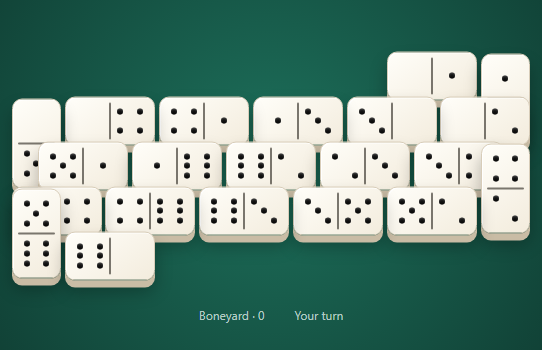
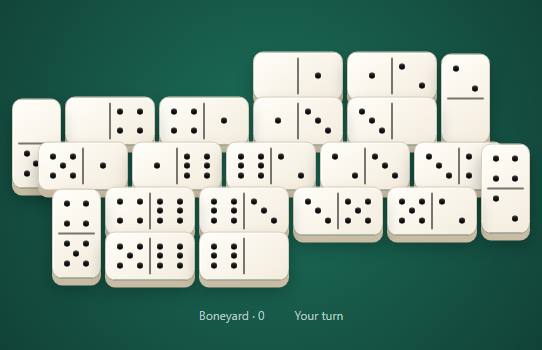
fix: avoid narrow domino turn overlap

Changed region(s): [[0.0, 0.5143, 0.5314, 0.8286], [0.7675, 0.1429, 1.0, 0.4286], [0.4428, 0.1429, 0.7675, 0.2857]]

diff --git a/apps/web/src/components/domino-chain-layout.ts b/apps/web/src/components/domino-chain-layout.ts
@@ -34,6 +34,14 @@ interface RowEntry {
   readonly raw: RawTile;
 }
 
+interface CornerPlacement {
+  readonly centerX: number;
+  readonly centerY: number;
+  readonly width: number;
+  readonly height: number;
+  readonly clamped: boolean;
+}
+
 export function layoutDominoChain(chain: readonly PlacedTile[], containerWidth: number): DominoChainLayout {
   if (!chain.length) return { tiles: [], height: MIN_HEIGHT };
   const width = Math.max(containerWidth, LONG_SIDE + PADDING * 2);
@@ -105,7 +113,17 @@ function placeBranch(
 
     const cornerAt = row.findLastIndex(({ raw }) => !isDouble(raw.tile));
     const previousIsDouble = isDouble(row.at(-1)?.raw.tile ?? tile);
-    const currentBecomesCorner = !isDouble(tile) && (cornerAt < 0 || !previousIsDouble);
+    const proposedCurrentCorner = cornerPlacement(
+      previous,
+      horizontalDirection,
+      verticalDirection,
+      rowCenterY,
+      width
+    );
+    const currentWouldObscurePrevious = proposedCurrentCorner.clamped &&
+      overlapsExcessively(previous, proposedCurrentCorner);
+    const currentBecomesCorner = !isDouble(tile) &&
+      (cornerAt < 0 || (!previousIsDouble && !currentWouldObscurePrevious));
     if (cornerAt < 0 && !currentBecomesCorner) {
       // Keep malformed fixture data total when no non-double is available as a corner.
       const fallback = rawTile(
@@ -135,19 +153,17 @@ function placeBranch(
     }
 
     const cornerOrientation: DominoOrientation = "vertical";
-    const cornerDimensions = tileDimensions(cornerOrientation);
-    const cornerCenterX = Math.min(
-      width - PADDING - cornerDimensions.width / 2,
-      Math.max(
-        PADDING + cornerDimensions.width / 2,
-        beforeCorner.centerX + horizontalDirection * (beforeCorner.width / 2 + cornerDimensions.width / 2 + GAP)
-      )
+    const cornerGeometry = cornerPlacement(
+      beforeCorner,
+      horizontalDirection,
+      verticalDirection,
+      rowCenterY,
+      width
     );
-    const cornerCenterY = rowCenterY + verticalDirection * cornerDimensions.height / 4;
     const corner = rawTile(
       cornerEntry.raw.tile,
-      cornerCenterX,
-      cornerCenterY,
+      cornerGeometry.centerX,
+      cornerGeometry.centerY,
       cornerOrientation,
       flowDirection(verticalDirection, indexStep)
     );
@@ -157,11 +173,49 @@ function placeBranch(
       pending.unshift(...replay, index);
     }
     horizontalDirection = horizontalDirection === -1 ? 1 : -1;
-    rowCenterY = cornerCenterY + verticalDirection * corner.height / 4;
+    rowCenterY = cornerGeometry.centerY + verticalDirection * corner.height / 4;
     rowAnchor = corner;
     previous = corner;
     row = [];
   }
+}
+
+function cornerPlacement(
+  beforeCorner: RawTile,
+  horizontalDirection: -1 | 1,
+  verticalDirection: -1 | 1,
+  rowCenterY: number,
+  width: number
+): CornerPlacement {
+  const { width: cornerWidth, height: cornerHeight } = tileDimensions("vertical");
+  const idealCenterX = beforeCorner.centerX +
+    horizontalDirection * (beforeCorner.width / 2 + cornerWidth / 2 + GAP);
+  const centerX = Math.min(
+    width - PADDING - cornerWidth / 2,
+    Math.max(PADDING + cornerWidth / 2, idealCenterX)
+  );
+  return {
+    centerX,
+    centerY: rowCenterY + verticalDirection * cornerHeight / 4,
+    width: cornerWidth,
+    height: cornerHeight,
+    clamped: centerX !== idealCenterX
+  };
+}
+
+function overlapsExcessively(first: RawTile, second: CornerPlacement): boolean {
+  const overlapWidth = Math.max(
+    0,
+    Math.min(first.centerX + first.width / 2, second.centerX + second.width / 2) -
+      Math.max(first.centerX - first.width / 2, second.centerX - second.width / 2)
+  );
+  const overlapHeight = Math.max(
+    0,
+    Math.min(first.centerY + first.height / 2, second.centerY + second.height / 2) -
+      Math.max(first.centerY - first.height / 2, second.centerY - second.height / 2)
+  );
+  return overlapWidth * overlapHeight >=
+    Math.min(first.width * first.height, second.width * second.height) / 4;
 }
 
 function isDouble(tile: PlacedTile): boolean {

diff --git a/apps/web/src/components/domino-chain-layout.test.ts b/apps/web/src/components/domino-chain-layout.test.ts
@@ -34,6 +34,14 @@ function closestHalves(
   ).sort((left, right) => left.distance - right.distance)[0]!;
 }
 
+function overlapArea(
+  first: ReturnType<typeof layoutDominoChain>["tiles"][number],
+  second: ReturnType<typeof layoutDominoChain>["tiles"][number]
+): number {
+  return Math.max(0, Math.min(first.x + first.width, second.x + second.width) - Math.max(first.x, second.x)) *
+    Math.max(0, Math.min(first.y + first.height, second.y + second.height) - Math.max(first.y, second.y));
+}
+
 describe("layoutDominoChain", () => {
   test("orders visible pips along both branches around move zero", () => {
     const chain = [
@@ -69,12 +77,14 @@ describe("layoutDominoChain", () => {
     const byMove = (moveNumber: number) =>
       layout.tiles.find(({ tile }) => tile.moveNumber === moveNumber)!;
 
-    expect(byMove(3).orientation).toBe("vertical");
-    expect([byMove(3).visualTile.left, byMove(3).visualTile.right]).toEqual([3, 4]);
-    expect(byMove(4).orientation).toBe("vertical");
-    expect([byMove(4).visualTile.left, byMove(4).visualTile.right]).toEqual([4, 3]);
-    expect([byMove(5).visualTile.left, byMove(5).visualTile.right]).toEqual([3, 2]);
-    expect([byMove(6).visualTile.left, byMove(6).visualTile.right]).toEqual([2, 3]);
+    expect(byMove(1).orientation).toBe("vertical");
+    expect([byMove(1).visualTile.left, byMove(1).visualTile.right]).toEqual([4, 5]);
+    expect(byMove(2).orientation).toBe("vertical");
+    expect([byMove(2).visualTile.left, byMove(2).visualTile.right]).toEqual([6, 4]);
+    expect([byMove(3).visualTile.left, byMove(3).visualTile.right]).toEqual([4, 3]);
+    expect([byMove(4).visualTile.left, byMove(4).visualTile.right]).toEqual([3, 4]);
+    expect([byMove(5).visualTile.left, byMove(5).visualTile.right]).toEqual([2, 3]);
+    expect([byMove(6).visualTile.left, byMove(6).visualTile.right]).toEqual([3, 2]);
   });
 
   test("keeps move zero centered and grows toward both sides", () => {
@@ -143,6 +153,28 @@ describe("layoutDominoChain", () => {
     expect(center(outgoing).x).toBeLessThan(center(corner).x);
   });
 
+  test("rolls the corner backward when a narrow clamp would obscure the previous tile", () => {
+    const chain = [
+      placedValues(0, 1, 5),
+      placedValues(1, 5, 3),
+      placedValues(2, 3, 2)
+    ];
+    const layout = layoutDominoChain(chain, 300);
+    const byMove = (move: number) =>
+      layout.tiles.find(({ tile }) => tile.moveNumber === move)!;
+    const incoming = byMove(0);
+    const corner = byMove(1);
+    const outgoing = byMove(2);
+    const cornerHalves = halfCenters(corner);
+
+    expect(corner.orientation).toBe("vertical");
+    expect(outgoing.orientation).toBe("horizontal");
+    expect(center(incoming).y).toBe(cornerHalves[0]!.y);
+    expect(center(outgoing).y).toBe(cornerHalves[1]!.y);
+    expect(overlapArea(corner, outgoing))
+      .toBeLessThan(Math.min(corner.width * corner.height, outgoing.width * outgoing.height) / 4);
+  });
+
   test("moves a turn backward across a double", () => {
     const chain = [
       placedValues(0, 1, 5),
@@ -185,6 +217,19 @@ describe("layoutDominoChain", () => {
       const connection = closestHalves(layout.tiles[index]!, layout.tiles[index + 1]!);
       expect(connection.left.value).toBe(connection.right.value);
     }
+  });
+
+  test("grows tall layouts with symmetric vertical margins", () => {
+    const pips = [1, 5, 3, 2, 4, 0, 6, 1, 3, 5, 2, 6, 4, 1, 0, 2, 5, 6];
+    const chain = pips.slice(0, -1).map((pip, moveNumber) =>
+      placedValues(moveNumber, pip!, pips[moveNumber + 1]!)
+    );
+    const layout = layoutDominoChain(chain, 300);
+    const top = Math.min(...layout.tiles.map(({ y }) => y));
+    const bottom = Math.max(...layout.tiles.map(({ y, height }) => y + height));
+
+    expect(layout.height).toBeGreaterThan(280);
+    expect(top).toBeCloseTo(layout.height - bottom, 5);
   });
 });
 

diff --git a/tests/e2e/domino-turn-visual.spec.ts b/tests/e2e/domino-turn-visual.spec.ts
@@ -365,6 +365,38 @@ async function assertNarrowFirstDoubleBranchIsTotal(page: Page): Promise<void> {
   }
 }
 
+async function assertNarrowOrdinaryChainRollsCornerBackward(page: Page): Promise<void> {
+  const narrowOrdinary = chain([1, 5, 3, 2], [0, 1, 2]);
+  await loadScenario(page, "turn-ordinary-narrow", narrowOrdinary, 320);
+  const [incoming, corner, outgoing] = await Promise.all([
+    geometryForMove(page, 0),
+    geometryForMove(page, 1),
+    geometryForMove(page, 2)
+  ]);
+  assertCornerContinuesVertically(incoming, corner, outgoing, 1);
+  expect(outgoing.orientation).toBe("horizontal");
+
+  const [cornerBounds, outgoingBounds] = await Promise.all([
+    page.locator('[data-move-number="1"]').boundingBox(),
+    page.locator('[data-move-number="2"]').boundingBox()
+  ]);
+  expect(cornerBounds).not.toBeNull();
+  expect(outgoingBounds).not.toBeNull();
+  const overlap = Math.max(
+    0,
+    Math.min(cornerBounds!.x + cornerBounds!.width, outgoingBounds!.x + outgoingBounds!.width) -
+      Math.max(cornerBounds!.x, outgoingBounds!.x)
+  ) * Math.max(
+    0,
+    Math.min(cornerBounds!.y + cornerBounds!.height, outgoingBounds!.y + outgoingBounds!.height) -
+      Math.max(cornerBounds!.y, outgoingBounds!.y)
+  );
+  expect(overlap).toBeLessThan(Math.min(
+    cornerBounds!.width * cornerBounds!.height,
+    outgoingBounds!.width * outgoingBounds!.height
+  ) / 4);
+}
+
 const normal = chain(
   [1, 5, 3, 2, 4, 0],
   [0, 1, 2, 3, 4]
@@ -384,6 +416,7 @@ test.beforeEach(() => {
 
 test("captures a normal penultimate-tile turn", async ({ page }) => {
   await assertNarrowFirstDoubleBranchIsTotal(page);
+  await assertNarrowOrdinaryChainRollsCornerBackward(page);
   await screenshotScenario(page, "turn-penultimate", normal, "artifacts/domino-turn-penultimate.png", () =>
     assertMoveCorner(page, 3, 1)
   );